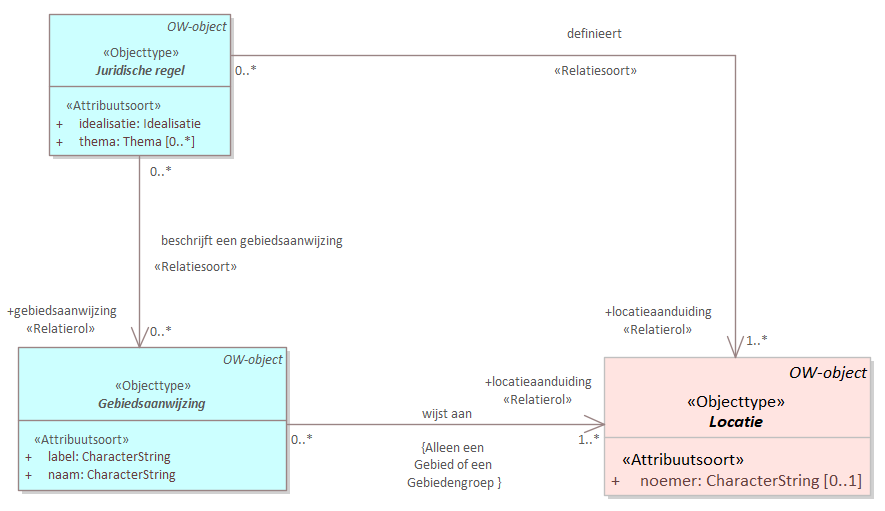
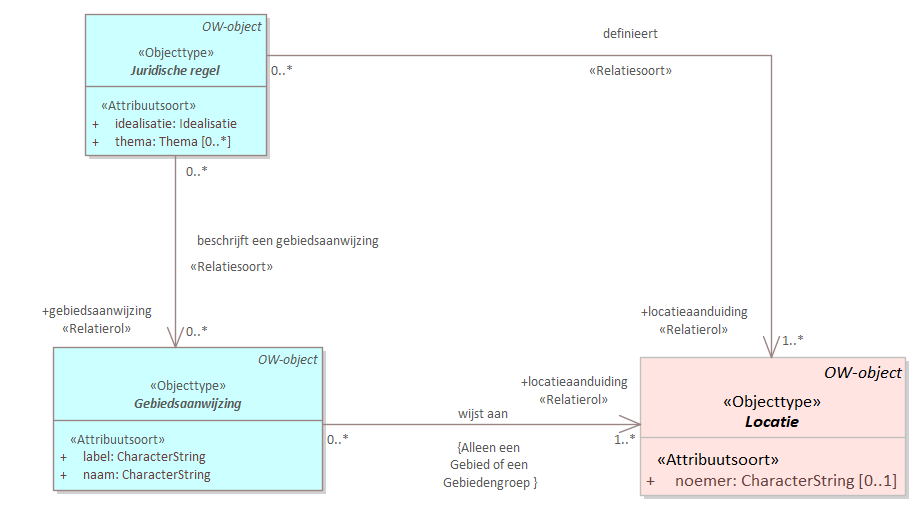
MIMCM-dso-cim-ow-1.0-0-20230213-20231003-093101

diff --git a/data/dso-cim-ow-cat.respec.html b/data/dso-cim-ow-cat.respec.html
@@ -1,7 +1,7 @@
 
 <!DOCTYPE HTML><section id="cat" class="normative">
    <h2>Gegevensdefinitie</h2>
-   <!--MIMCM-dso-cim-ow-1.0-0-20230213-20231003-091313 imvertor Nightly-build.10-->
+   <!--MIMCM-dso-cim-ow-1.0-0-20230213-20231003-093101 imvertor Nightly-build.10-->
    <section id="global_packages">
       <h3>Model   dso-cim-ow</h3>
       <section id="EAID_199FD13D_8495_487c_8D35_8C11BB634BAE">
@@ -33,7 +33,7 @@
          <h4>   CIM-OW - alle informatie rondom regels - overzicht</h4>
          <div class="imageinfo overview">
             <figure><img src="data/Images/EAID_39BFBADA_1173_4408_A26C_16716D45ACFC.png" usemap="#imagemap-EAID_39BFBADA_1173_4408_A26C_16716D45ACFC" alt="Diagram &#xA;                        &#xA;                     "><figcaption>CIM-OW - alle informatie rondom regels</figcaption>
-            </figure><map name="imagemap-EAID_39BFBADA_1173_4408_A26C_16716D45ACFC"><area shape="rect" alt="ActiviteitLocatieaanduiding" coords="641,685,957,789" href="#global_class_Regel_ActiviteitLocatieaanduiding"><area shape="rect" alt="OP-objectAnnotatie" coords="316,26,439,122" href="#global_class_DatatypenAlgemeen_OPObjectAnnotatie"><area shape="rect" alt="Omgevingswaarderegel" coords="1345,543,1544,664" href="#global_class_Regel_Omgevingswaarderegel"><area shape="rect" alt="Regel voor iedereen" coords="622,536,977,657" href="#global_class_Regel_RegelVoorIedereen"><area shape="rect" alt="Instructieregel" coords="1003,536,1327,657" href="#global_class_Regel_Instructieregel"><area shape="rect" alt="Functie" coords="168,689,324,797" href="#global_class_GebiedsAanwijzing_Functie"><area shape="rect" alt="Beperkingengebied" coords="355,698,567,806" href="#global_class_GebiedsAanwijzing_Beperkingengebied"><area shape="rect" alt="Gebiedsaanwijzing" coords="287,454,469,597" href="#global_class_GebiedsAanwijzing_Gebiedsaanwijzing"><area shape="rect" alt="Normwaarde" coords="1252,1190,1606,1397" href="#global_class_RegelsOpLocatie_Normwaarde"><area shape="rect" alt="RegeltekstAnnotatie" coords="238,183,533,374" href="#global_class_Regel_RegeltekstAnnotatie"><area shape="rect" alt="Norm" coords="1279,707,1527,909" href="#global_class_RegelsOpLocatie_Norm"><area shape="rect" alt="Locatie" coords="600,1337,886,1464" href="#global_class_Locatie_Locatie"><area shape="rect" alt="Juridische regel" coords="786,294,1036,440" href="#global_class_Regel_JuridischeRegel"><area shape="rect" alt="Omgevingswaarde" coords="1421,1032,1658,1148" href="#global_class_RegelsOpLocatie_Omgevingswaarde"><area shape="rect" alt="Omgevingsnorm" coords="1159,1032,1401,1148" href="#global_class_RegelsOpLocatie_Omgevingsnorm"><area shape="rect" alt="Activiteit" coords="618,995,806,1138" href="#global_class_RegelsOpLocatie_Activiteit"></map></div>
+            </figure><map name="imagemap-EAID_39BFBADA_1173_4408_A26C_16716D45ACFC"><area shape="rect" alt="ActiviteitLocatieaanduiding" coords="666,685,981,789" href="#global_class_Regel_ActiviteitLocatieaanduiding"><area shape="rect" alt="OP-objectAnnotatie" coords="340,26,463,122" href="#global_class_DatatypenAlgemeen_OPObjectAnnotatie"><area shape="rect" alt="Omgevingswaarderegel" coords="1369,543,1569,664" href="#global_class_Regel_Omgevingswaarderegel"><area shape="rect" alt="Regel voor iedereen" coords="646,536,1002,657" href="#global_class_Regel_RegelVoorIedereen"><area shape="rect" alt="Instructieregel" coords="1028,536,1352,657" href="#global_class_Regel_Instructieregel"><area shape="rect" alt="Functie" coords="193,689,349,797" href="#global_class_GebiedsAanwijzing_Functie"><area shape="rect" alt="Beperkingengebied" coords="380,698,592,806" href="#global_class_GebiedsAanwijzing_Beperkingengebied"><area shape="rect" alt="Gebiedsaanwijzing" coords="312,454,493,597" href="#global_class_GebiedsAanwijzing_Gebiedsaanwijzing"><area shape="rect" alt="Normwaarde" coords="1276,1190,1630,1397" href="#global_class_RegelsOpLocatie_Normwaarde"><area shape="rect" alt="RegeltekstAnnotatie" coords="262,183,558,374" href="#global_class_Regel_RegeltekstAnnotatie"><area shape="rect" alt="Norm" coords="1304,707,1551,909" href="#global_class_RegelsOpLocatie_Norm"><area shape="rect" alt="Locatie" coords="625,1337,910,1464" href="#global_class_Locatie_Locatie"><area shape="rect" alt="Juridische regel" coords="810,294,1061,440" href="#global_class_Regel_JuridischeRegel"><area shape="rect" alt="Omgevingswaarde" coords="1446,1032,1682,1148" href="#global_class_RegelsOpLocatie_Omgevingswaarde"><area shape="rect" alt="Omgevingsnorm" coords="1184,1032,1425,1148" href="#global_class_RegelsOpLocatie_Omgevingsnorm"><area shape="rect" alt="Activiteit" coords="642,995,831,1138" href="#global_class_RegelsOpLocatie_Activiteit"></map></div>
       </section>
       <section id="EAID_2DE7527E_B35C_49d8_A144_C5CF7E3053A7">
          <h4>   Waardelijsten - overzicht</h4>
@@ -2832,15 +2832,6 @@
                      <th>Naam</th>
                      <td>Defensiegroep</td>
                   </tr>
-                  <tr>
-                     <th>Toelichting</th>
-                     <td>
-                        
-                        
-                        <p>Toegestane waardes zijn te vinden in de stelselcatalogus: https://stelselcatalogus.omgevingswet.overheid.nl/waardelijsten/overview</p>
-                        
-                        </td>
-                  </tr>
                </tbody>
             </table>
             </section>
@@ -3037,12 +3028,11 @@
                         </td>
                   </tr>
                   <tr>
-                     <th>Definitie</th>
+                     <th>Toelichting</th>
                      <td>
                         
                         
-                        <p>Een uitbreidbare lijst met een opsomming van de mogelijke domeinwaarden van een attribuutsoort,
-                           die buiten het model in een externe waardenlijst worden beheerd. </p>
+                        <p>Toegestane waardes zijn te vinden in de stelselcatalogus: https://stelselcatalogus.omgevingswet.overheid.nl/waardelijsten/overview</p>
                         
                         </td>
                   </tr>
@@ -13591,7 +13581,7 @@
          <h4>   VrijeTekst - overzicht</h4>
          <div class="imageinfo overview">
             <figure><img src="data/Images/EAID_A509DD9D_C20A_4e73_8C68_39FB1D86F894.png" usemap="#imagemap-EAID_A509DD9D_C20A_4e73_8C68_39FB1D86F894" alt="Diagram &#xA;                        &#xA;                     "><figcaption>VrijeTekst</figcaption>
-            </figure><map name="imagemap-EAID_A509DD9D_C20A_4e73_8C68_39FB1D86F894"><area shape="rect" alt="Gebiedsaanwijzing" coords="49,476,306,631" href="#global_class_GebiedsAanwijzing_Gebiedsaanwijzing"><area shape="rect" alt="Locatie" coords="701,476,968,611" href="#global_class_Locatie_Locatie"><area shape="rect" alt="Hoofdlijn" coords="672,131,929,309" href="#global_class_VrijeTekst_Hoofdlijn"><area shape="rect" alt="VrijetekstAnnotatie" coords="49,122,342,290" href="#global_class_VrijeTekst_VrijetekstAnnotatie"></map></div>
+            </figure><map name="imagemap-EAID_A509DD9D_C20A_4e73_8C68_39FB1D86F894"><area shape="rect" alt="Gebiedsaanwijzing" coords="64,478,321,634" href="#global_class_GebiedsAanwijzing_Gebiedsaanwijzing"><area shape="rect" alt="Locatie" coords="716,478,983,614" href="#global_class_Locatie_Locatie"><area shape="rect" alt="Hoofdlijn" coords="687,134,944,312" href="#global_class_VrijeTekst_Hoofdlijn"><area shape="rect" alt="VrijetekstAnnotatie" coords="64,124,357,292" href="#global_class_VrijeTekst_VrijetekstAnnotatie"></map></div>
       </section>
       <section>
          <h4>Objecttypen   </h4>
@@ -15014,7 +15004,7 @@
 </section>
 <section id="lis" class="normative">
    <h2>Inhoud van waardenlijsten</h2>
-   <!--MIMCM-dso-cim-ow-1.0-0-20230213-20231003-091313 imvertor Nightly-build.10-->
+   <!--MIMCM-dso-cim-ow-1.0-0-20230213-20231003-093101 imvertor Nightly-build.10-->
    <section>
       <h3>Referentielijst inhoud   </h3>
       <section id="detail_class_GebiedsAanwijzing_Beperkingengebiedgroep">
@@ -15245,10 +15235,6 @@
             <tbody>
                <tr>
                   <td>
-                     
-                     
-                     <p>Een uitbreidbare lijst met een opsomming van de mogelijke domeinwaarden van een attribuutsoort,
-                        die buiten het model in een externe waardenlijst worden beheerd. </p>
                      
                      
                      
